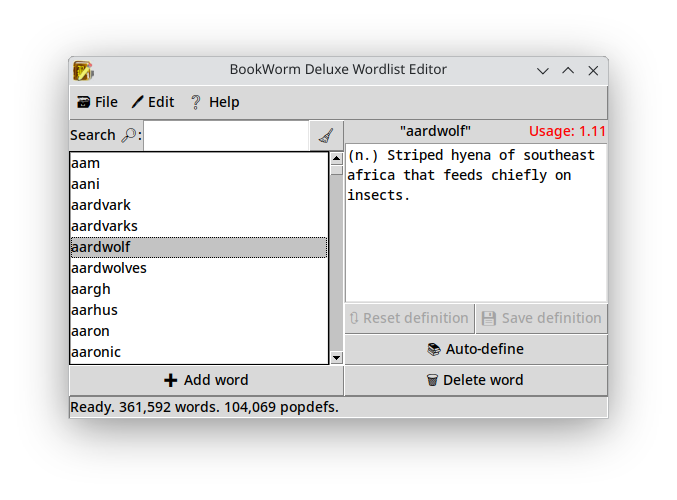
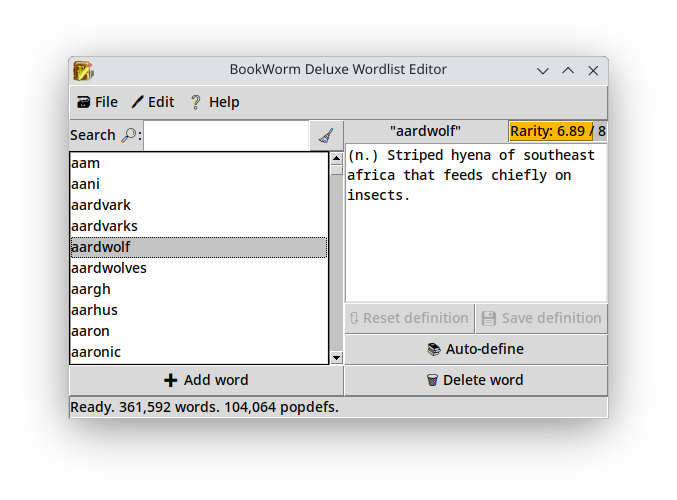
Updated rarity display, added arrow key word select
- Pressing arrow keys now moves through the word list
- Renamed stylemanager to styler
- Changed rarity display to progress bar

Changed region(s): [[0.7445, 0.24, 0.8996, 0.3], [0.5583, 0.24, 0.7134, 0.27], [0.3722, 0.81, 0.4032, 0.84]]

diff --git a/info.py b/info.py
@@ -28,7 +28,7 @@ from tkinter import ttk
 OP_PATH = op.dirname(__file__)  # The path of the script file's containing folder
 
 PROGRAM_NAME = "BookWorm Deluxe Wordlist Editor"
-PROGRAM_VER = "2.3.0"
+PROGRAM_VER = "2.4.0"
 ICON_PATH = op.join(OP_PATH, "bookworm_wordlist_editor.png")
 LICENSE_NAME = "Apache License version 2.0"
 

diff --git a/README.md b/README.md
@@ -21,7 +21,7 @@ For the auto-define button to work, the program requires an internet connection 
 When the program opens, it will default to opening the BookWorm Deluxe folder in the expected system location per your platform, or the last location that it was successfully opened to, whichever seems better. The memory for that last opened location is stored in `~/.bookworm_wordlist_editor/config.yaml`. You can safely delete this file to reset the configuration to the defaults. If on Linux or MacOS, it will assume the default Wine prefix in your user directory. If it does not find the wordlist.txt and popdefs.txt files in this default location, or the default location doesn't exist, it will ask you to choose the BookWorm Deluxe folder manually.
 
 Once the program loads the files, you should see a list of words in the left pane. The bottom of the window shows the current number of words and popdefs in memory when idle, and status information on any currently running threaded operations.
-- Select a word to see its usage frequency according to wordfreq (zero for no wordfreq entry), and its current popdef (blank for no popdef). If the usage frequency is below an arbitrary value where I think it might need a popdef, it will show in red. Otherwise, it will show in black. While a word is selected you can:
+- Select a word to see its usage rarity according to wordfreq (8.00 / 8 for no wordfreq entry), and its current popdef (blank for no popdef). If the usage frequency is below an arbitrary value where I think it might need a popdef, the meter will be orange. Otherwise, it will be blue. While a word is selected you can:
     - Edit the popdef and save it. Note that if you select a different word before saving the definition, it will reset.
     - Reset the popdef to what it was the last time you saved it.
     - Auto-create a popdef using the NLTK wordnet English dictionary.
